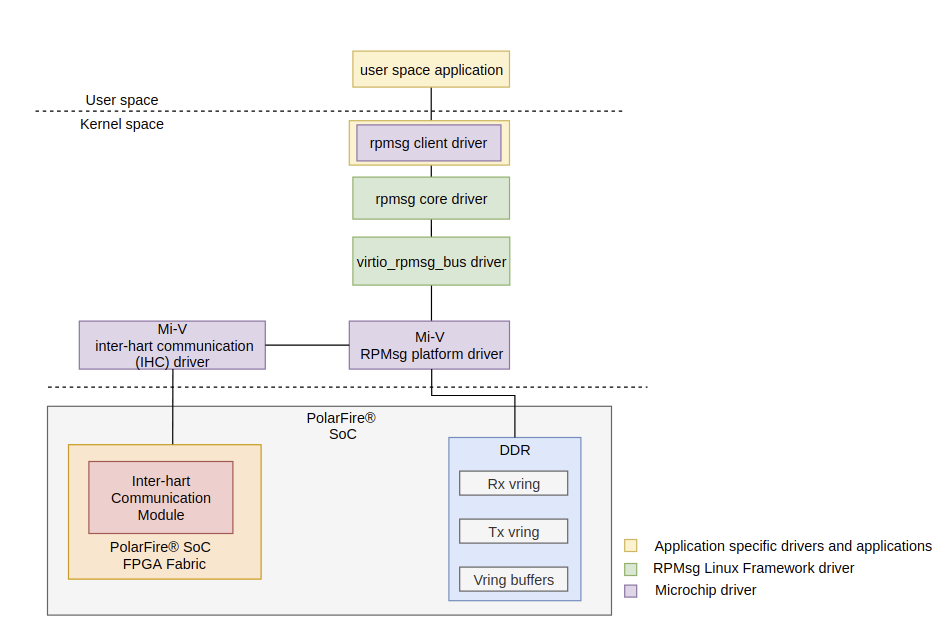
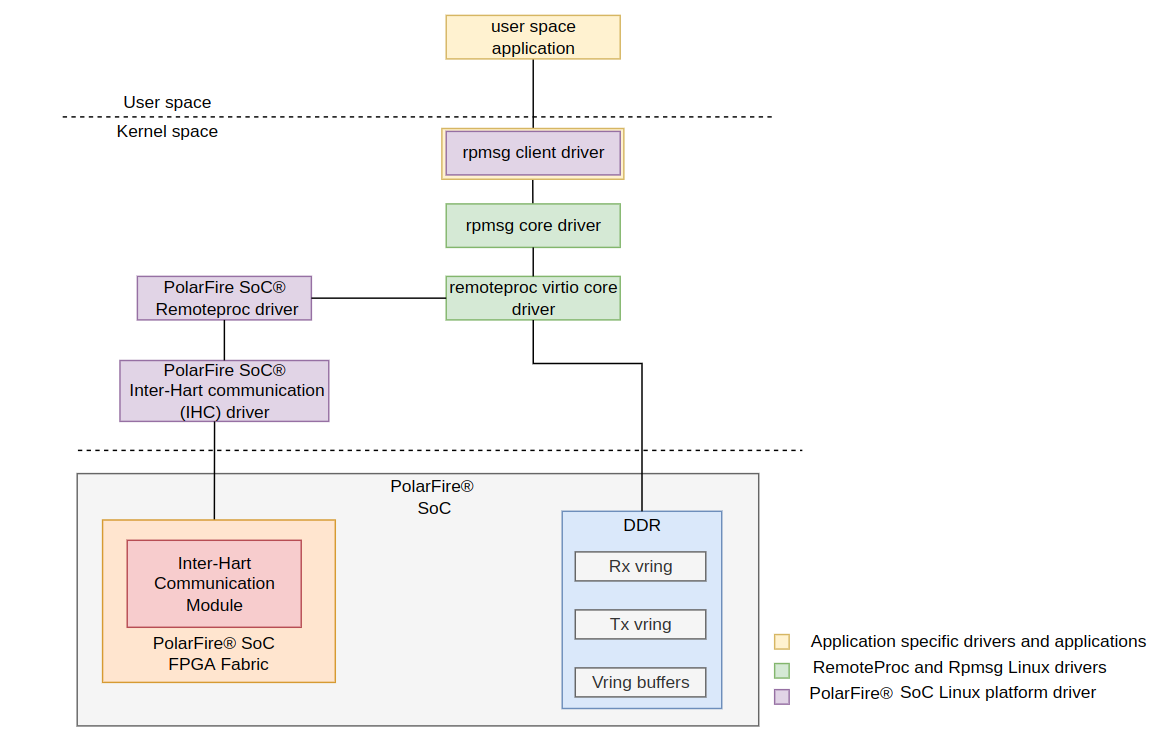
amp: add remoteproc support
Add a remoteproc markdown document to explain remoteproc support on the
Icicle Kit in AMP mode. This allows to control the life cycle of a
remote context (start, stop, load firmware, etc.) from Linux.

Also, update the amp.md and rpmsg.md with the changes introduced by
remoteproc.

Changed region(s): [[0.0612, 0.0, 1.0, 1.0]]

diff --git a/asymmetric-multiprocessing/remoteproc.md b/asymmetric-multiprocessing/remoteproc.md
@@ -1,0 +1,247 @@
+# Remote Processor Framework (Remoteproc)
+
+- [Introduction to Remoteproc](#introduction-to-remoteproc)
+- [The Remoteproc Resource Table](#the-remoteproc-resource-table)
+  - [PolarFire SoC Default Resource Table](#polarfire-soc-default-resource-table)
+  - [A resource table example without RPMsg Communication](#a-resource-table-example-without-rpmsg-communication)
+- [Remoteproc Boot Modes](#remoteproc-boot-modes)
+  - [Early Boot Mode](#early-boot-mode)
+  - [Late Boot Mode](#late-boot-mode)
+    - [Configure the HSS payload for Late Boot Mode](#configure-the-hss-payload-for-late-boot-mode)
+    - [Booting the remote context using Remoteproc](#booting-the-remote-context-using-remoteproc)
+      - [Booting the remote context using SysFs](#booting-the-remote-context-using-sysfs)
+      - [Automatically Booting Firmware using RemoteProc (Advanced)](#automatically-booting-firmware-using-remoteproc-advanced)
+- [RemoteProc Linux Overview](#remoteproc-linux-overview)
+- [Remoteproc Linux Kernel Configuration](#remoteproc-linux-kernel-configuration)
+- [Remoteproc Linux Device Tree Configuration](#remoteproc-linux-device-tree-configuration)
+
+<a name="introduction-to-remoteproc"></a>
+
+## Introduction to Remoteproc
+
+This page provides a brief introduction to the Remote Processor Framework (Remoteproc) used to control the Life Cycle Management (LCM) of a remote AMP context (RTOS/BM) from Linux.
+
+The remoteproc APIs provide life cycle management of remote processors by performing the following functions:
+
+- Allow the master context to load code and data sections of the remote context firmware image (in ELF format) to appropiate locations in memory
+- Start and stop exection of the remote context firmware
+- Establish RPMsg communication channels to exchange messages with the remote context
+
+<a name="the-remoteproc-resource-table"></a>
+
+## The Remoteproc Resource Table
+
+The remote context firmware should contain a statically linked resource table data structure that defines the system resources used by the remote firmware.
+
+The role of the resource table is to:
+
+- Describe contiguous memory carveouts required by the remote firmware's code and data sections
+- Support additional resource entries to announce additional features supported by the remote processor, such as virtIO devices for RPMsg-based communication
+
+The remoteproc framework on the master context parses the remote context resource table to allocate appropiate system resources, create virtIO devices for rpmsg communication, etc.
+
+The resource table configuration and entries may mary depending on application requirements. [Section 2.1](#polarfire-soc-default-resource-table) describes the default resource table used in PolarFire SoC RPMsg application demos. Alternatively, [Section 2.2](a-resource-table-example-without-rpmsg-communication) describes a simple resource table that can be used on custom applications without RPmsg communication.
+
+<a name="polarfire-soc-default-resource-table"></a>
+
+### PolarFire SoC Default Resource Table
+
+The PolarFire SoC AMP examples [repository](https://mi-v-ecosystem.github.io/redirects/repo-polarfire-soc-amp-examples) contains a resource table with the following configuration:
+
+- One virtio device resource entry for RPmsg communication
+- Two vrings entry descriptors (Tx/Rx pair)
+
+The [resource table](https://mi-v-ecosystem.github.io/redirects/polarfire-soc-amp-examples-rpmsg-rsc-table) source code used in the PolarFire SoC AMP examples is shown below:
+
+```c
+# define NUM_VRINGS                  0x02
+# define VRING_ALIGN                 0x1000
+# define VDEV0_VRING_BASE            0x81400000
+# define VRING_SIZE                  0x8000
+
+const struct remote_resource_table __attribute__((section(".resource_table"))) resources
+    .version = 1,
+    .num = 1,
+    .reserved = {0, 0},
+    .offset = {
+        offsetof(struct remote_resource_table, rpmsg_vdev),
+    },
+    /* Virtio device entry */
+    .rpmsg_vdev= {
+        RSC_VDEV, VIRTIO_ID_RPMSG, 0, RSC_VDEV_FEATURE_NS, 0, 0, 0,
+        NUM_VRINGS, {0, 0},
+    },
+
+    /* Vring rsc entry - part of vdev rsc entry */
+    .rpmsg_vring0 = {VDEV0_VRING_BASE, VRING_ALIGN, VRING_SIZE, 0, 0},
+    .rpmsg_vring1 = {VDEV0_VRING_BASE + VRING_SIZE , VRING_ALIGN, VRING_SIZE, 1, 0},
+};
+```
+
+<a name="a-resource-table-example-without-rpmsg-communication"></a>
+
+### A resource table example without RPMsg Communication
+
+For a simple resource table in a custom application without RPMsg communication, the following resource table can be used instead:
+
+```c
+const struct remote_resource_table __attribute__((section(".resource_table"))) resources
+    .version = 1,
+    .num = 1,
+    .reserved = {0, 0},
+    .offset = {0},
+ };
+```
+
+<a name="remoteproc-boot-modes"></a>
+
+## RemoteProc Boot Modes
+
+There are two possible ways to load and start the remote context firmware; an Early Boot mode or a Late Boot mode. The following sections explain each modes in more detail.
+
+<a name="early-boot-mode"></a>
+
+### Early Boot Mode (Default)
+
+This is the default mode configured the PolarFire SoC Yocto BSP when using the Icicle Kit AMP machine.
+
+In the Early boot flow, the remote context firmware is booted by the HSS before Linux boots.
+
+Once Linux boots, the remoteproc framework in Linux will automatically attach itself to the remote context. Once attached, it is possible for Linux to control the life cycle of the remote context.
+
+For RPMsg communication to work in this mode, a `rsc-table` property pointing to the location in memory where the resource table was loaded by the remote processor should be provided in the Linux device Tree.
+
+For more information on the device tree settings for remoteproc, please refer to the [Remoteproc Linux Device Tree Configuration](#remoteproc-linux-device-tree-configuration) section.
+
+<a name="late-boot-mode"></a>
+
+### Late Boot Mode
+
+This mode can be used to load and start the remote context firmware from Linux using the Remoteproc framework.
+
+<a name="configure-the-hss-payload-for-late-boot-mode"></a>
+
+#### Configure the HSS payload for Late Boot Mode
+
+To use the Remoteproc Late Boot mode, the HSS payload generator YAML configuration file needs to have the skip_autoboot flag set to true in the remote context payload entry. This will tell the HSS not to load or start the remote context firmware.
+
+A sample HSS payload generator YAML file configured with late boot flow is provided below:
+
+```yaml
+#
+# HSS Payload Generator YAML file
+#
+
+set-name: 'PolarFire-SoC-HSS::Linux + FreeRTOS AMP'
+
+hart-entry-points: {u54_1: '0x1000200000', u54_2: '0x1000200000', u54_3: '0x1000200000', u54_4: '0x81000000'}
+
+payloads:
+  u-boot.bin: {exec-addr: '0x1000200000', owner-hart: u54_1, secondary-hart: u54_2, secondary-hart: u54_3, priv-mode: prv_s}
+  amp-application.elf: {exec-addr: '0x81000000', owner-hart: u54_4, priv-mode: prv_m, skip-opensbi: true, skip-autoboot: true}
+```
+
+<a name="booting-the-remote-context-using-remoteproc"></a>
+
+#### Booting the remote context using Remoteproc
+
+When using the Late Boot mode, the Linux remoteproc framework will search and parse the resource table from the remote context firmware ELF file.
+Therefore, there is no need to provide a rsc-table property in the device tree as done in the Early Boot mode.
+
+There are two possibilities to load and start the remote processor from Linux when using the Late Boot mode:
+
+- Start the firmware using the SysFS interface
+
+- Auto boot: Automatically starts the firmware during the remoteproc driver probing
+
+<a name="booting-the-remote-context-using-sysfs"></a>
+
+#### Booting the remote context through SysFS
+
+By default, when using the Late Boot mode, the remote context firmware must be manually started using SysFS.
+
+The Linux Remoteproc framework will search for an ELF file with the name `rproc-miv-rproc-fw` in the /lib/firmware directory in the file system
+
+- To start the firmware, the following command should be used:
+
+```bash
+# echo start >/sys/class/remoteproc/remoteproc0/state
+```
+
+Optionally, if the firmware elf file is different from the default one (rproc-miv-rproc-fw), the following command can be used to set the name of the firmware used by the remoteproc framework:
+
+```bash
+# echo -n <firmware_name.elf> > /sys/class/remoteproc/remoteproc0/firmware
+```
+
+Optionally, to stop the firmware running in the remote context, the following command can be used:
+
+```bash
+# echo stop >/sys/class/remoteproc/remoteproc0/state
+```
+
+<a name="automatically-booting-firmware-using-remoteproc-advanced"></a>
+
+#### Automatically Booting Firmware using RemoteProc (Advanced)
+
+Alternatively, there is an option that allows the firmware to boot automatically when the remoteproc driver is probed by Linux. This can be achieved by setting the `microchip,auto-boot` device tree property in the remoteproc stanza.
+
+This requires additional configurations that are not enabled by default. Therefore, it is recommended for users who are familiar with Linux kernel and build systems.
+
+It is worth mentioning that the firmware must be present in /lib/firmware before the remoteproc driver is probed. However, in normal conditions, the remoteproc driver is probed before the filesystem is mounted, and the firmware is consequently not available during the Linux driver probing phase. Possible solutions could be:
+
+- To use an initramfs
+- To compile remoteproc as a module and not as kernel built-in driver
+
+To enable auto boot support, the `microchip,auto-boot` property can be enabled in the Linux Icicle Kit Device Tree as shown below
+
+```dts
+    rproc_contextb: remote-context {
+        compatible = "microchip,miv-remoteproc";
+        ...
+        microchip,auto-boot;
+        status = "okay";
+    };
+```
+
+<a name="remoteproc-linux-overview"></a>
+
+## RemoteProc Linux Overview
+
+![remoteproc-overview](images/arch-remoteproc.png)
+
+On the Linux side, the Remoteproc relies on the following components:
+
+- **Linux Remoteproc framework**: Generic Linux remoteproc framework drivers, including the core remoteproc Linux driver, ELF loader and additional drivers to interact with SysFS, virtIO, debugFS, etc. For more information on the Linux remoteproc framework, please refer to the [Linux Remoteproc documentation](https://www.kernel.org/doc/Documentation/remoteproc.txt)
+
+- **Mi-V Remoteproc driver**: This is the remoteproc platform specific Mi-V driver that interacts with the Linux Remoteproc framework.
+
+The remoteproc components mentioned above interact with other subsystems including the Inter-hart communication driver (mailbox subsystem) and the rpmsg subsystem.
+
+<a name="remoteproc-linux-kernel-configuration"></a>
+
+## Remoteproc Linux Kernel Configuration
+
+To enable the RPMsg communication on PolarFire SoC using Linux, remoteproc must be enabled in the Linux kernel by using the following kernel configurations:
+
+```Kconfig
+CONFIG_REMOTEPROC=y
+CONFIG_MIV_REMOTEPROC=y
+```
+
+The Remoteproc Kconfig options shown above are already configured in the PolarFire SoC Yocto environment when using the AMP machine.
+
+<a name="remoteproc-linux-kerdevice-tree-configuration"></a>
+
+## Remoteproc Linux Device Tree Configuration
+
+The default device tree configuration provided in the [Icicle Kit AMP device tree](https://mi-v-ecosystem.github.io/redirects/linux4microchip-icicle-kit-amp-dts) reserved all required memory regions to be able to:
+
+- start, stop and load firmware to the remote AMP context
+- vring and buffers required for RPMsg communication between Linux and the remote context (FreeRTOS/BM)
+
+The [Mi-V Remoteproc bindings](https://mi-v-ecosystem.github.io/redirects/linux4microchip-bindings-microchip-miv-remoteproc) documentation deals with all required and optional device tree properties for remoteproc.
+
+
+
+

diff --git a/asymmetric-multiprocessing/amp.md b/asymmetric-multiprocessing/amp.md
@@ -6,6 +6,8 @@ This page provides a brief introduction to Asymmetric Multiprocessing (AMP) conc
   - [Introduction](#introduction)
   - [AMP on PolarFire SoC](#amp-on-polarfire-soc)
     - [AMP Boot Flow](#amp-boot-flow)
+      - [AMP Early Boot Flow](#amp-early-boot-flow)
+      - [AMP Late Boot Flow](#amp-late-boot-flow)
     - [Inter-Hart Communication (IHC)](#inter-hart-communication-ihc)
   - [AMP Configurations](#amp-configurations)
     - [Linux + FreeRTOS/Bare Metal(BM) Configuration](#linux--freertos--baremetal-configuration)
@@ -49,13 +51,36 @@ A HSS payload is an image containing a header and one or more binary files that 
 
 In an AMP configuration, the HSS payload should contain two binary files, one for each of the supported software contexts. For example, one of these binary files could be an ELF file containing a bare metal application or RTOS, and the other one a U-boot binary to load Linux OS.
 
-When loading a payload, the HSS will copy the payload from non-volatile storage to DDR and then copy the binaries to the memory location(s) that were specified when the payload was generated.
+<a name="amp-early-boot-flow"></a>
 
-In addition to this, the HSS payload header describes which harts are associated with each payload as well as the address that each hart should start executing from once the payload has been loaded into memory by the HSS.
+### AMP Early Boot Flow
 
-![amp-boot-flow](images/amp-boot-flow.png)
+By default, the HSS will copy the payload from non-volatile storage to DDR and then copy the binaries to the memory location(s) that were specified when the payload was generated.
+
+The HSS payload header describes which harts are associated with each payload as well as the address that each hart should start executing from once the payload has been loaded into memory by the HSS.
+
+![amp-early-boot-flow](images/amp-early-boot-flow.png)
 
 For further information on [HSS payloads](https://mi-v-ecosystem.github.io/redirects/software-development_hss-payloads), please refer to the HSS payload documentation page.
+
+<a name="amp-late-boot-flow"></a>
+
+### AMP Late Attach Boot Flow
+
+This mode can be used to control the Life Cycle Management (LCM) of the remote AMP context from the master context using the Remoteproc framework. This allows:
+
+- Controlling the remote processor execution (start, stop, etc.)
+- Loading the ELF firmware in the remote processor memory
+- Parsing a firmware resource table to set associated resources such as inter-hart communication using RPMsg framework.
+
+It is worth mentioning that Remoteproc functionality is currently supported by Linux (master context) to control the life cycle of the remote context (Bare Metal/FreeRTOS).
+
+![amp-late-boot-flow](images/amp-late-boot-flow.png)
+
+In this boot flow, the HSS payload generator YAML configuration file has the skip_autoboot flag set to true in the RTOS/BM entry.
+This will indicate the HSS to do the basic setup of the AMP context (OpenSBI domain registration, PMP setup, etc.). However, it won't load the ELF file to memory or start the application execution. The harts within the context will remain idle until the application (either a FreeRTOS or BM application) gets loaded and started by another entity, such as remoteproc from a Linux master context.
+
+More details on this framework are available in the remoteproc framework documentation [page](https://mi-v-ecosystem.github.io/redirects/asymmetric-multiprocessing_remoteproc).
 
 <a name="inter-hart-communication-ihc"></a>
 
@@ -113,10 +138,10 @@ The table below describes the DDR memory layout used in this demo:
 
 |                             | Linux (Context A)                                            | FreeRTOS/BM (Context B)          |
 | --------------------------- | ------------------------------------------------------------ | -------------------------------- |
-| Main Memory                 | 1883.69 MB Total <br /><br /> Cached @ 0x10_0000_0000        | Cached @ 0x10_75BB_0000 (4 MB)   |
-| User space mappable buffers | Cached @  0x80000000 (32 MB) <br /><br /> Non Cached @ 0xc0000000 (128MB) <br /><br /> WCB  @ 0xd0000000 (128MB) | -                                |
-| RPMsg vrings                | Cached @ 0x10_75FB_0000 (64 KB)                              | Cached @ 0x10_75FB_0000 (64 KB)  |
-| RPMsg buffers               | Cached @ 0x10_75FC_0000 (256 KB)                             | Cached @ 0x10_75FC_0000 (256 KB) |
+| Main Memory                 | 1883.69 MB Total <br /><br /> Cached @ 0x10_0000_0000        | Cached @ 0x8100_0000 (4 MB)   |
+| User space mappable buffers | Cached @  0x8000_0000 (16 MB) <br /><br /> Non Cached @ 0xc000_0000 (128MB) <br /><br /> WCB  @ 0xd000_0000 (128MB) | -                                |
+| RPMsg vrings                | Cached @ 0x8140_0000 (64 KB)                              | Cached @ 0x8140_0000 (64 KB)  |
+| RPMsg buffers               | Cached @ 0x8141_0000 (256 KB)                             | Cached @ 0x8141_0000 (256 KB) |
 
 <a name="building-the-linux--freertos--bm-demo"></a>
 

diff --git a/asymmetric-multiprocessing/rpmsg.md b/asymmetric-multiprocessing/rpmsg.md
@@ -104,13 +104,16 @@ The RPMsg-lite framework for RTOS/bare metal applications supports Master and Re
 
 On the Linux side, the RPmsg Framework relies on the interaction of following components:
 
-- **VirtIO RPMsg bus driver**: VirtIO implementation used by the RPMsg protocol. Its implementation is based on a shared ring buffer (vring).
+- **Remoteproc core drivers**: Framework that allows to start, stop and load firmware to the remote AMP context.
+  This framework also adds rpmsg support for sharing messages with a remote AMP by using the Linux remoteproc virtio driver.
+
+- **Remoteproc virtio core driver**: VirtIO implementation used by the RPMsg protocol. Its implementation is based on a shared ring buffer (vring).
 
 - **RPMsg core driver**: implementation of the RPMsg layer in Linux.
 
 - **Rpmsg client driver** : a client driver that implements a specific service to communicate with the remote processor. Some of them may expose user space interfaces if needed. Some examples include the RPMsg TTY client driver and the RPMsg char driver.
 
-- **Mi-V RPMsg driver**: RPMsg platform driver for Mi-V SoCs.
+- **Mi-V Remoteproc driver**: Remoteproc platform driver for Mi-V SoCs.
 
 - **Mi-V Inter-Hart communication (IHC) driver**: Linux driver that interacts with the Mi-V Inter-Hart Communication (IHC) subsystem.
 
@@ -120,9 +123,9 @@ On the Linux side, the RPmsg Framework relies on the interaction of following co
 
 ### RPMsg Linux Kernel Configuration
 
-To enable the RPMsg Framework on PolarFire SoC using Linux, the `CONFIG_RPMSG_MIV` kernel configuration must be activated.
+The RPMsg framework is automatically enabled when the remote `MIV_REMOTEPROC` configuration is enabled.
 
-This option is already configured in the PolarFire SoC Yocto and Buildroot environments when using the AMP machine.
+This option is already configured in the PolarFire SoC Yocto and Buildroot build systems when using the AMP machine.
 
 <a name="how-to-use-the-rpmsg-framework-on-linux"></a>
 
